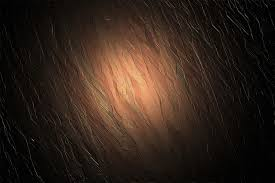
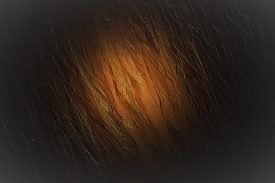
Increase message size and darken wood.jpg

diff --git a/script.js b/script.js
@@ -8,12 +8,11 @@ $(function() {
   if (parts.length == 2) {userMsg = parts.pop().split(";").shift();}
 
   if (userMsg) {
-    $('.startingText, .textBox, .submit').css('display', 'none');
-    $('.middle').append($(`<h2 style='color: rgb(120,117,127);' class='msgHeader'>${userMsg}</h2>`));
+    $('.textBox, .submit').css('display', 'none');
+    $('.middle').append($(`<h1 style='color: rgb(120,117,127);' class='msgHeader'>${userMsg}</h1>`));
   }
 
   else {
-    $('.startingText').css('display', 'block');
     $('.textBox, .submit').css('display', 'inline-block');
   }
 
